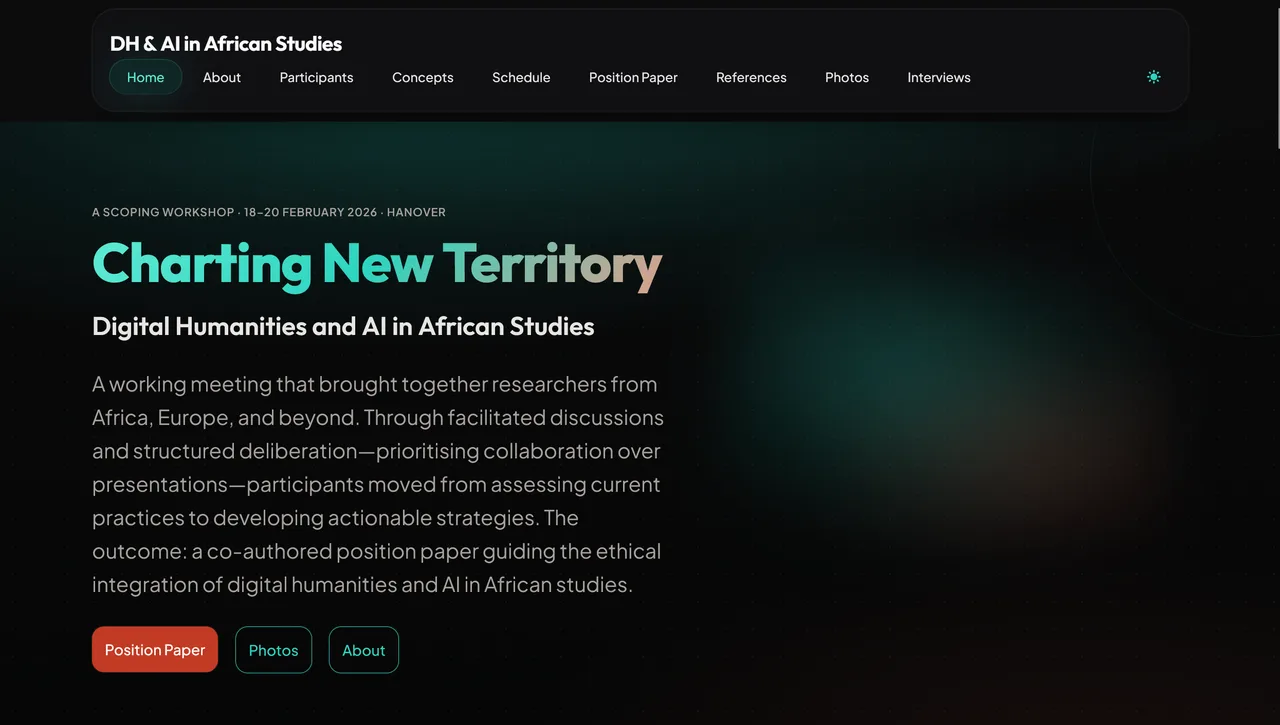
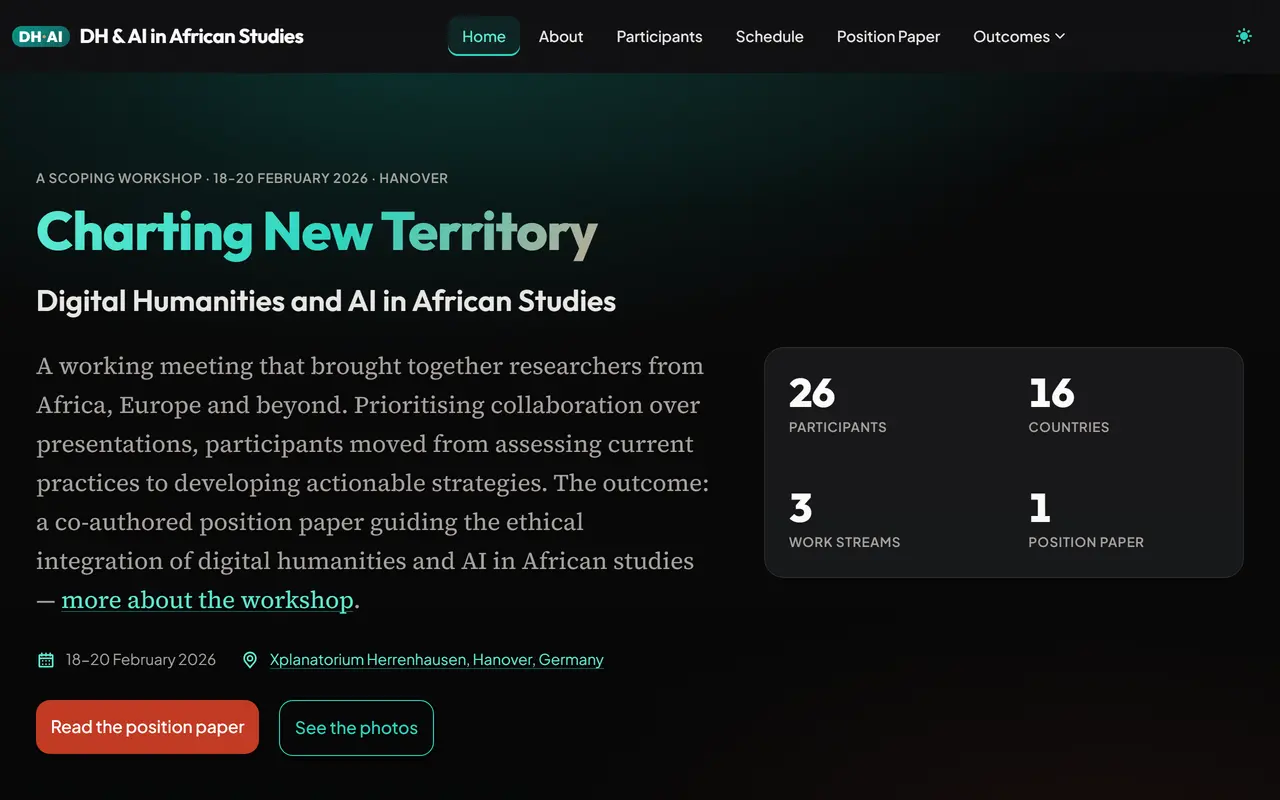
Refresh DH project screenshots
Recapture the Charting New Territory and IWAC Sentiment Analysis
screenshots from the live sites; both have been redesigned since the
previous shots.

diff --git a/src/lib/data/imageVariants.generated.ts b/src/lib/data/imageVariants.generated.ts
@@ -600,8 +600,8 @@ export const imageVariantManifest: Readonly<Record<string, ImageVariantManifestE
 		widths: [400, 800]
 	},
 	'digital-humanities/iwac-sentiment-analysis.webp': {
-		sourceWidth: 600,
-		widths: [400]
+		sourceWidth: 1280,
+		widths: [400, 800]
 	},
 	'digital-humanities/IWAC.webp': {
 		sourceWidth: 1280,
